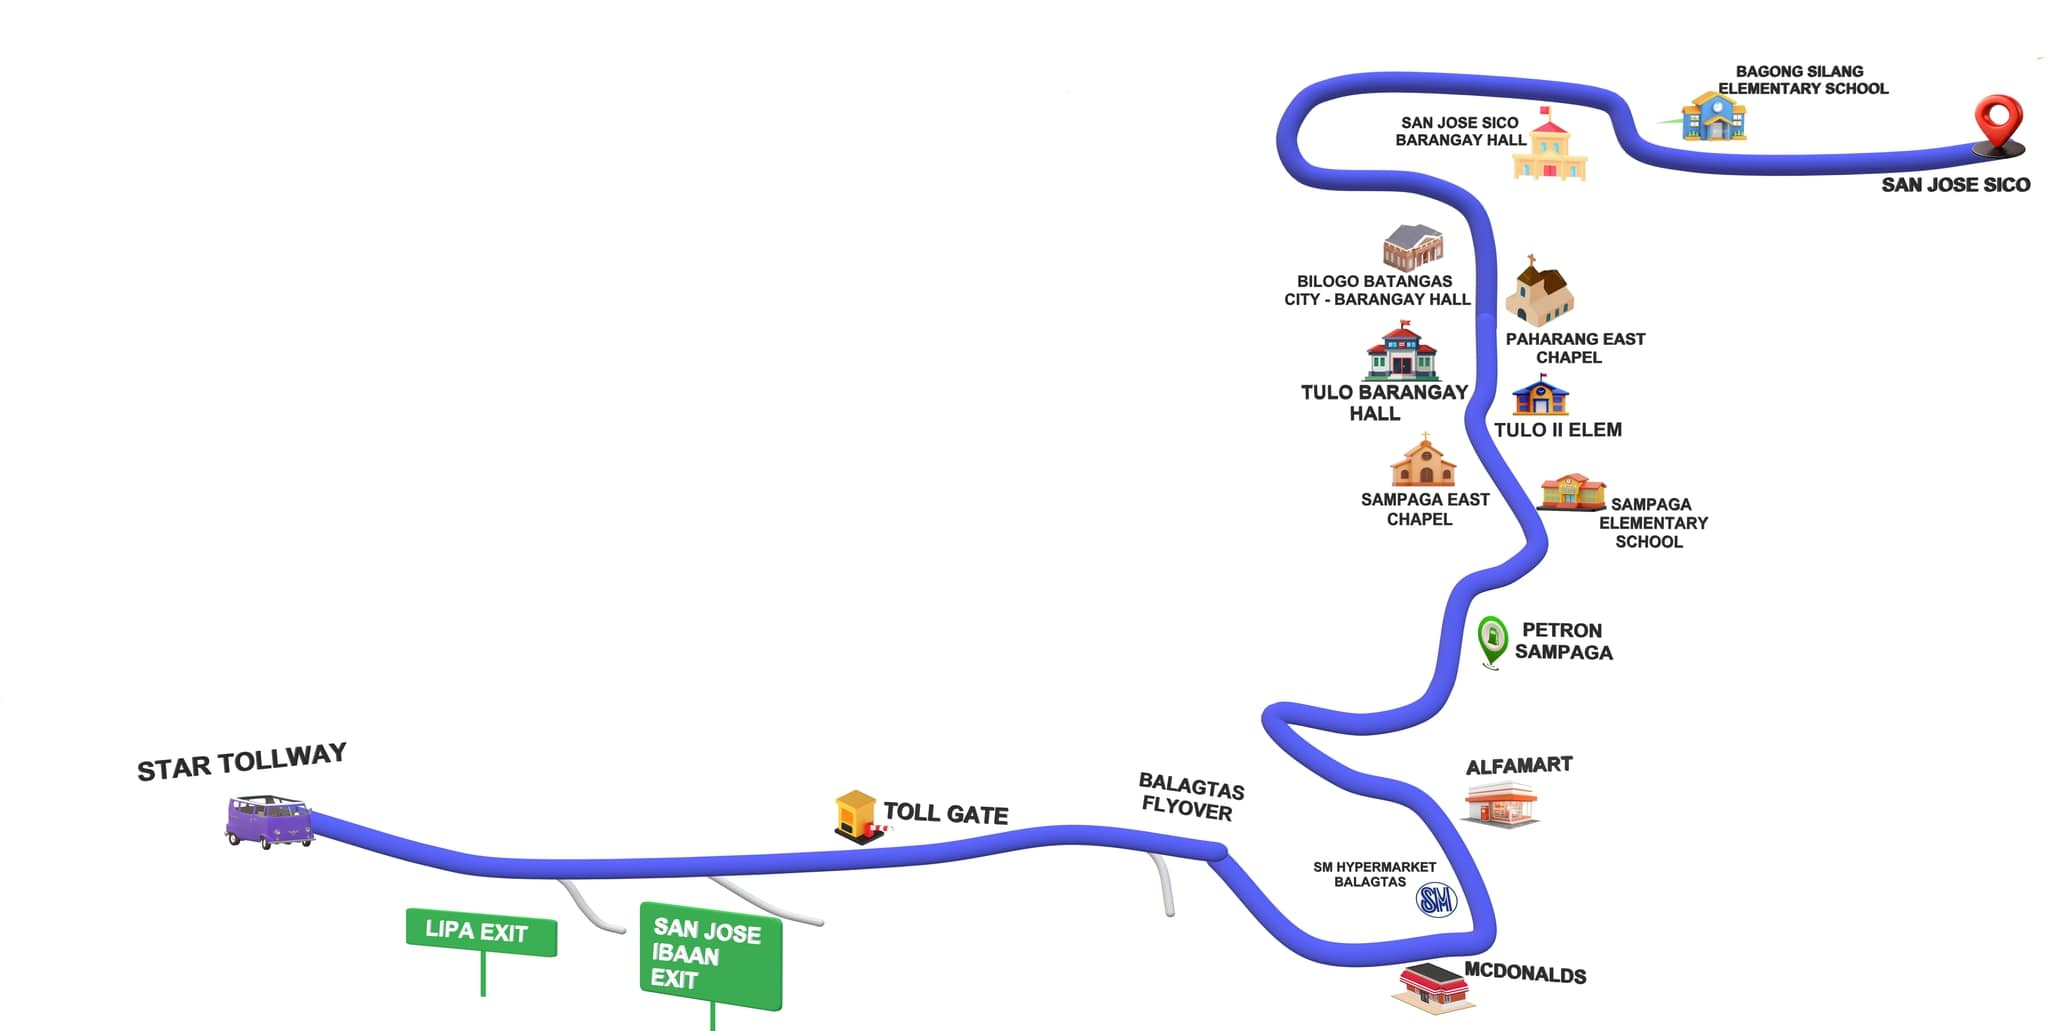
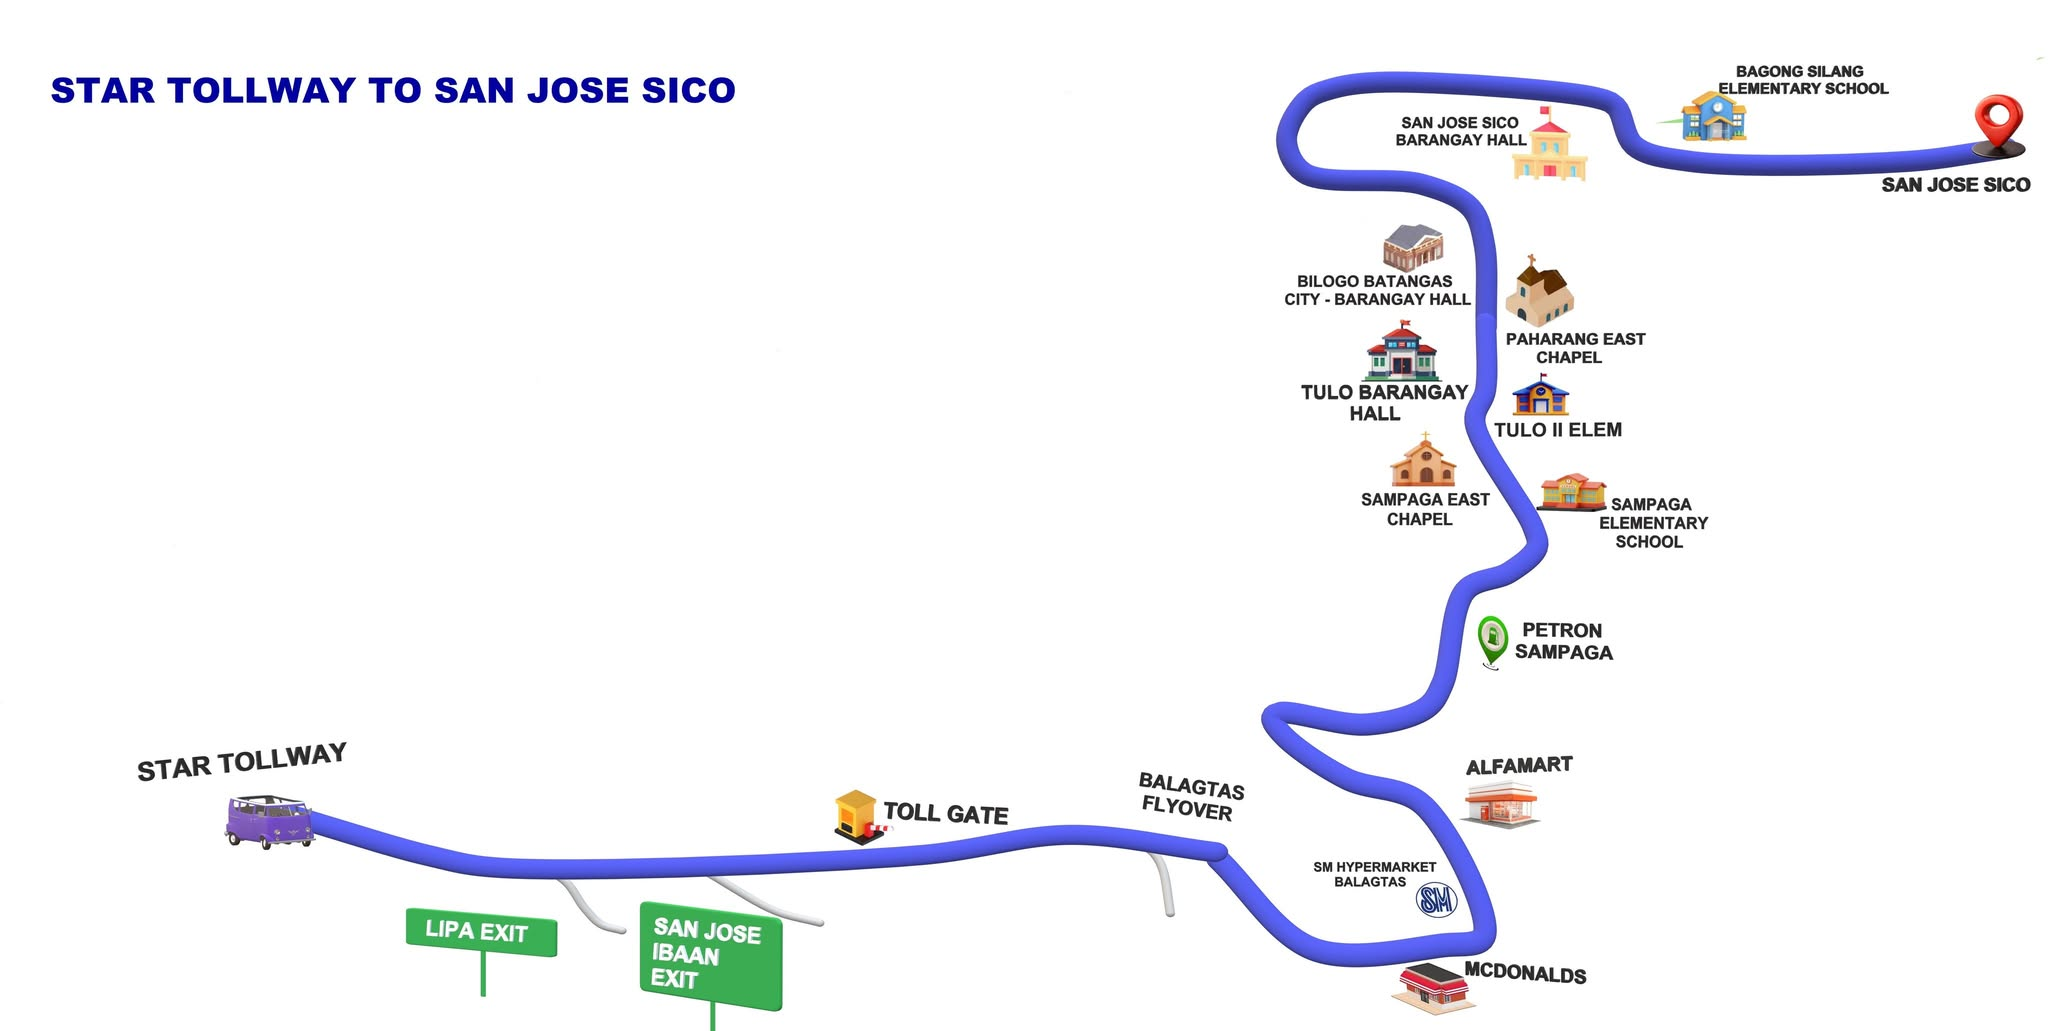
added label to guidemaps, also changed acc for Formspree, aww almost done with this

Changed region(s): [[0.0312, 0.0621, 0.375, 0.1242]]

diff --git a/pages/contact-us.html b/pages/contact-us.html
@@ -9,7 +9,7 @@
                         Reach out to us and we'll respond as soon as we can.</p>
 
                     <!-- Contact form with Formspree integration -->
-                    <form id="contactForm" action="https://formspree.io/f/mvgaodyg" method="POST">
+                    <form id="contactForm" action="https://formspree.io/f/mgvkqnwp" method="POST">
                         <div class="mb-1">
                             <label for="questionType" class="form-label">Ask a Question</label>
                             <select class="form-select" id="questionType" name="Question Type">
